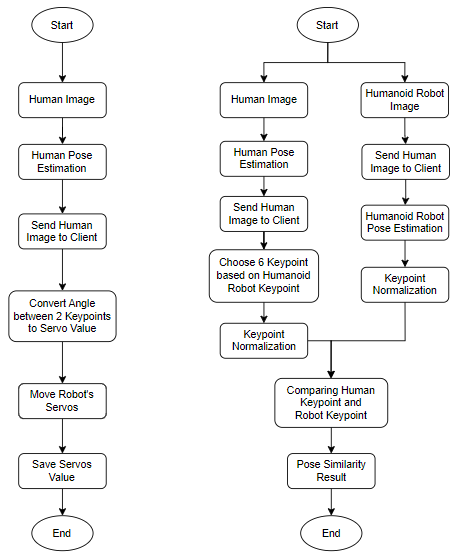
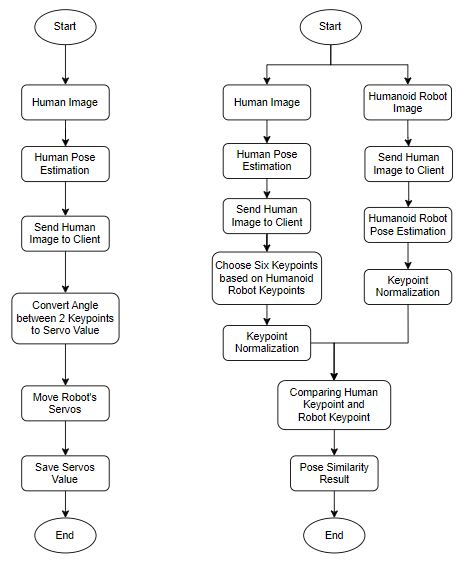
refactor: fix choose keypoints, keypoint norm, compare keypoints, and result

Changed region(s): [[0.4298, 0.0, 1.0, 1.0], [0.0, 0.0, 0.2763, 1.0], [0.7675, 0.0305, 0.7982, 0.0609]]

diff --git a/bab/3-desain-implementasi.tex b/bab/3-desain-implementasi.tex
@@ -9,7 +9,7 @@ In RECORD mode, it starts with a human image and then does pose estimation to ge
 On the other hand, in PLAY mode, the input is 2: human image and humanoid robot image. Then, we perform pose estimation for both images. Before doing keypoint normalization, we have to choose 6 human keypoints based on humanoid robot keypoints. Lastly, we compare those keypoints and get the result.
 \begin{figure}[ht]
   \centering
-  \includegraphics[scale=1.25]{gambar/diagram-block-revisi.png}
+  \includegraphics[scale=1.23]{gambar/diagram-block-revisi.png}
   \caption{Block Diagram of Workflow.}
   \label{fig:block-diagram}
 \end{figure}
@@ -169,6 +169,8 @@ Lastly, the \verb|"start_delay"| field denotes any delay before the action begin
 
 This explanation is intended for the right block diagram from Figure \ref{fig:block-diagram} or we can also say as the RECORD mode. The difference between the PLAY and RECORD modes lies in the number of cameras used.
 So there will be two cameras, one camera to record human movement (located on the robot's head) and the other to record robot movement (located from the human side facing the robot), the distance between them approximately 1 - 1.5 meters, as shown in Figure \ref{fig:pose-comparison-side}.
+In PLAY mode, the server side sends two images so that we can know and adjust the position of humans and robots in the camera. Due to the large network delay when sending two 320x240 pixel images, when the START button is pressed,
+the server does not send the image to client again, the robot plays a series of moves stored in the previous JSON file by communicating via another ROS2 packages, while saving both images. After that, when the STOP button is pressed, the server starts to compare poses between them.
 \begin{figure}[ht]
   \centering
   \includegraphics[scale=0.3]{gambar/pose-comparison.jpeg}
@@ -348,58 +350,62 @@ If we want to run OpenVINO IR Model in OpenVINO Runtime, we must make sure that 
 \end{figure}
 
 
-\section{Comparing the Suitability Between Humanoid Robot Pose and Human Pose}
-\label{sec:comparingsuitability}
+\section{Choose Six Keypoints based on Humanoid Robot Keypoints}
+\label{sec:choose-keypoints}
 
-The difference in numbers between human keypoints and robot keypoints makes us have to reduce human keypoints in order to make a comparison between them.
+The difference in numbers between human keypoints and robot keypoints makes us have to choose certain human's keypoints in order to make a comparison between them.
 Based on the results after testing, we chose Mediapipe for human and Keypoint RCNN for robot. Mediapipe provides 33 landmark keypoints for human and Keypoint RCNN only provides 6 keypoints.
-Therefore, we need to reduce the human keypoint to 6 as shown in Code \ref{lst:reducehumankeypoints}.
-The name of the keypoints in the code corresponds to the name of the keypoints in the robot. First, we get all 33 keypoints in row 16. Then calculate the keypoint we want, such as the head keypoint which is located between the right and left eyes.
-The keypoint for the hands and feet is simply to select the wrists and ankles in Mediapipe(lines 22-28), where landmark[15] and landmark[16] are wrists, landmark[27] and landmark[28] are ankles. Lastly, the trunk keypoint is located between the shoulder and hip keypoint (lines 31-34).
+Therefore, we need to choose 6 human keypoint as shown in Pseudocode \ref{lst:choose-human-keypoints}.
+Note that, the name of the keypoints in the code corresponds to the name of the keypoints in the robot. First, we get all 33 keypoints. Then calculate the keypoint we want, such as the head keypoint which is located between the right and left eye.
+To obtain the eye landmarks, we can index \verb|landmark| variable according to Figure \ref{fig:mediapipe-landmark}, where the left eye is index 2 and the right eye is index 5. This also applies to other landmarks.
+The keypoint for the hands and feet is simply to select the wrists and ankles, where landmark[15] and landmark[16] are wrists, landmark[27] and landmark[28] are ankles.
+Lastly, the trunk keypoint is located between the shoulder and hip keypoint. The x coordinate is located in the middle of the hip. The y-coordinate, on the other hand, is located on 1/4 distance between the hip and the shoulder from below.
+First, we determine the midpoint between the shoulder and hip by individually calculating the coordinates of the right and left y axes, like Pseudocode \ref{lst:choose-human-keypoints} lines 19 and 21. In order to obtain 1/4 of the distance between the hip and the shoulder from below, we then compute the midpoint between the previous computation and the hip point as shown in lines 20, 22, and 24.
+After all of the computation, we arrange all keypoints in a single array.
 
 \lstinputlisting[
-  language=Python,
-  caption={Reduce human keypoints program.},
-  label={lst:reducehumankeypoints}
-]{program/reduce-human-keypoints.py}
+  language={},
+  caption={Choose human keypoints.},
+  label={lst:choose-human-keypoints}
+]{program/choose-human-keypoints.txt}
 
-The next step is defining similarity. When we think about the problem, we see that there are many uncertainties to be addressed. For example, human and humanoid robot can differ in height, body shape, and location within an image: one subject (human or robot) may have been nearby the camera,
+
+\section{Keypoint Normalization}
+\label{sec:keypoint-normalization}
+
+When we think about the problem, we see that there are many uncertainties to be addressed. For example, human and humanoid robot can differ in height, body shape, and location within an image: one subject (human or robot) may have been nearby the camera,
 while another may have been in the distance. In order to get an accurate outcome, each of these issues must be resolved.
-After reducing the keypoints, the model output for both human and robot is the coordinates of 6 keypoints. This information can be used to create a new bounding box that tightly covers the person in the picture. This solves the problem of the subject appearing in different parts of the picture.
-The code implementation can be seen in Code \ref{lst:newbbox}. Line 1-12 is finding the keypoint minimum value, line 14-17 is substracting x value and y value with minimum value before. After that, we get the new bounding box.
-We further normalized the resulting keypoints coordinates by performing L2 normalization in order to transform it into a unit vector as shown in Figure \ref{fig:transforming-into-unit-vector} and the implementation on Code \ref{lst:l2norm} (Note that, we prevent division by 0 in lines 8-11 to avoid error).
-This means we are ignoring the size of the picture, but keeping in account the direction of the vector, created by the pose inside of that image.
-The two steps described before can be thought of visually as shown in Figure \ref{fig:steps-to-normalize}.
+After choosing the keypoints, the model output for both human and robot is the coordinates of 6 keypoints. This information can be used to create a new keypoint coordinates starting from (0,0) in the image. This solves the problem of the subject appearing in different parts of the picture.
 
 \lstinputlisting[
-  language=Python,
-  caption={Get New Bounding Box Program.},
-  label={lst:newbbox}
-]{program/bbox.py}
+  language={},
+  caption={Get New Keypoints.},
+  label={lst:new-keypoints}
+  ]{program/bbox.txt}
+
+In Pseudocode \ref{lst:new-keypoints}, the code is structured into two functions: \verb|get_min_point| and \verb|get_| \verb|new_coords|. The \verb|get_min_point| function takes an array of keypoints coordinates as input with shape (6,2)
+and iterates through each item in the array. It keeps track of the minimum x and y values encountered during the iteration and returns an array containing the minimum x and y coordinates.
+The \verb|get_new_coords| function takes the keypoint coordinates array and \verb|min_point| (minimum x and y coordinates) from the previous calculation as input. It iterates through each item and subtracts the corresponding minimum x and y values from each coordinate. The updated coords array is returned.
+
+We further normalized the resulting keypoints coordinates by performing L2 normalization in order to transform it into a unit vector as shown in Figure \ref{fig:transforming-into-unit-vector}.
+This means we are ignoring the size of the picture, but keeping in account the direction of the vector, created by the pose inside of that image.
+To calculate the L2 normalization for an individual point is to take the square root of the sum of the squares of its coordinates. This calculation resulting the magnitude or length of the vector formed by the coordinates of the point.
+Next step is dividing each coordinate by the length of the vector. This step ensures that the resulting normalized point lies on the unit circle. This normalization process scales the coordinates proportionally while preserving the direction of the vector. Moreover, it will optimize using NumPy library so it can compute multiple points simultaneously.
 
 \begin{figure}[ht]
   \centering
-  \includegraphics[scale=0.9]{gambar/transform-to-unit-vector.png}
+  \includegraphics[scale=0.8]{gambar/transform-to-unit-vector.png}
   \caption{Transforming into Unit Vector.}
   \label{fig:transforming-into-unit-vector}
 \end{figure}
 
-\lstinputlisting[
-  language=Python,
-  caption={L2 normalization Program.},
-  label={lst:l2norm}
-]{program/l2_norm.py}
 
-\begin{figure}[ht]
-  \centering
-  \includegraphics[scale=0.9]{gambar/two-steps.png}
-  \caption{Steps Taken to Normalize Data.}
-  \label{fig:steps-to-normalize}
-\end{figure}
+\section{Comparing Human Keypoints and Robot Keypoints}
+\label{sec:comparing-keypoints}
 
 Now that we have standardized the pose vectors, it is time to choose a similarity measure. We chose cosine similarity for this particular instance, mainly because we are working with vectors and performing a few calculations detailed below to arrive at a Euclidean distance that can be interpreted as a cosine distance.
-The formula shown in Equation \ref{eq:euclideandistance} and the implementation on Code \ref{lst:cosinedistane}.
-In that formula, Fxy and Gxy are two pose vectors to be compared after L2 normalization. Moreover, Fxy and Gxy contain only x and y positions for each of the 6 keypoints, it does not include confidence scores.
+The cosine similarity ranges from -1 to 1, with 1 indicating identical poses or vectors are in the same direction, 0 indicating no similarity or vectors are nearly orthogonal, and -1 indicating completely opposite poses or opposite direction. The cosine distance, on the other hand, is a dissimilarity measure that ranges from 0 to 2.
+Using Equation \ref{eq:euclideandistance} scales the values to the range of 0 to 2, making it easier to interpret the results. A larger value implies a greater dissimilarity between poses. In that equation, Fxy and Gxy are two pose vectors to be compared after L2 normalization. Moreover, Fxy and Gxy contain only x and y positions for each of the 6 keypoints, it does not include confidence scores.
 
 \begin{equation}
   \label{eq:cosinesimilarity}
@@ -411,45 +417,10 @@ In that formula, Fxy and Gxy are two pose vectors to be compared after L2 normal
   D(F_{xy}, G_{xy}) = \sqrt{2 * (1 - cosineSimilarity(F_{xy}, G_{xy}))}
 \end{equation}
 
-\lstinputlisting[
-  language=Python,
-  caption={Cosine Distance Program.},
-  label={lst:cosinedistane}
-]{program/cosine_distance.py}
 
-\section{Making Main Program}
-\label{sec:makingmainprogram}
+\section{Pose Similarity Result}
+\label{sec:pose-similarity-result}
 
-% Our main program uses websites to interact with users because of its flexibility on any platform, the website view can be seen in Figure \ref{fig:websiteview}. So there is a Javascript client and a Python Server that communicate via \emph{socketio}.
-% The main program is divided into two modes, RECORD mode and PLAY mode. In RECORD mode, a human as a trainer gives a series of movements and will be followed by a humanoid robot, as well as robot save these movements to use in PLAY mode later.
-% Meanwhile, in the PLAY mode, the robot acts as a trainer and performs a series of movements according to the movements previously stored in RECORD mode. Human will follow the robot's movement while the robot is also saving both human and robot images.
-% So there will be two cameras, one camera to record human movement (located on the robot's head) and the other to record robot movement (located from the human side facing the robot), the distance between them approximately 1 - 1.5 meters, as shown in Figure \ref{fig:posecomparisonside}.
-% \begin{figure}[ht]
-%   \centering
-%   \includegraphics[scale=0.76]{gambar/web.png}
-%   \caption{Website View.}
-%   \label{fig:websiteview}
-% \end{figure}
-
-% \begin{figure}[ht]
-%   \centering
-%   \includegraphics[scale=0.32]{gambar/pose-comparison.jpeg}
-%   \caption{Pose Comparison from Side.}
-%   \label{fig:posecomparisonside}
-% \end{figure}
-
-On the client side, we use ReactJS library. There are four buttons: RECORD, PLAY, START, and STOP button. The RECORD and PLAY button indicates the modes in the main program, while the START and STOP button tell us when the mode is started or stopped.
-Besides that, there are also two images that show human and robot image that is sent from the server side. As shown in Code \ref{lst:clientside}, client and server communicate through port 5555 (line 5).
-We use the \emph{useEffect} function to indicate if there is a change in a particular variable and do something like converting the image from the buffer to a string (line 13) in order to display it on the HTML image tag later on and send some data to the server (line 20).
-
-\lstinputlisting[
-  language={},
-  caption={Client Side Program.},
-  label={lst:clientside}
-]{program/client-side.js}
-
-Meanwhile, our server uses ROS2 with Python language. To run the server and ROS2 program simultaneously, we need a separate thread, so the server program does not block the ROS2.
-On this server side, all of the computations happen, starting from RECORD mode when Mediapipe detects human pose, visualizes the detection result, and send it as a buffer to the client.
-Then, calculate each of the human's joint values, convert them to desired servo values in the real robot, communicate with other ROS2 packages to move the actual robot servo, and also save a series of human movements in a JSON file.
-Whereas in PLAY mode, the server side sends two images so that we can know and adjust the position of humans and robots in the camera. Due to the large network delay when sending two 320x240 pixel images, when the START button is pressed,
-the server does not send the image, the robot plays a series of moves stored in the previous JSON file by communicating via another ROS2 packages, while saving both images. After that, when the STOP button is pressed, the server starts to compare the suitability of poses between them.
+The result of pose similarity is in percentages with a range of 0 to 100. A higher score indicates a more similar position between the human and robot, and vice versa.
+In order to get it, we multiply the cosine distance result from Section \ref{sec:comparing-keypoints} by 100 and subtract the result from 100.
+After getting each result of pose similarity, we take a mean and display it in the left top video. This video will be generated after detecting and comparing all poses.
